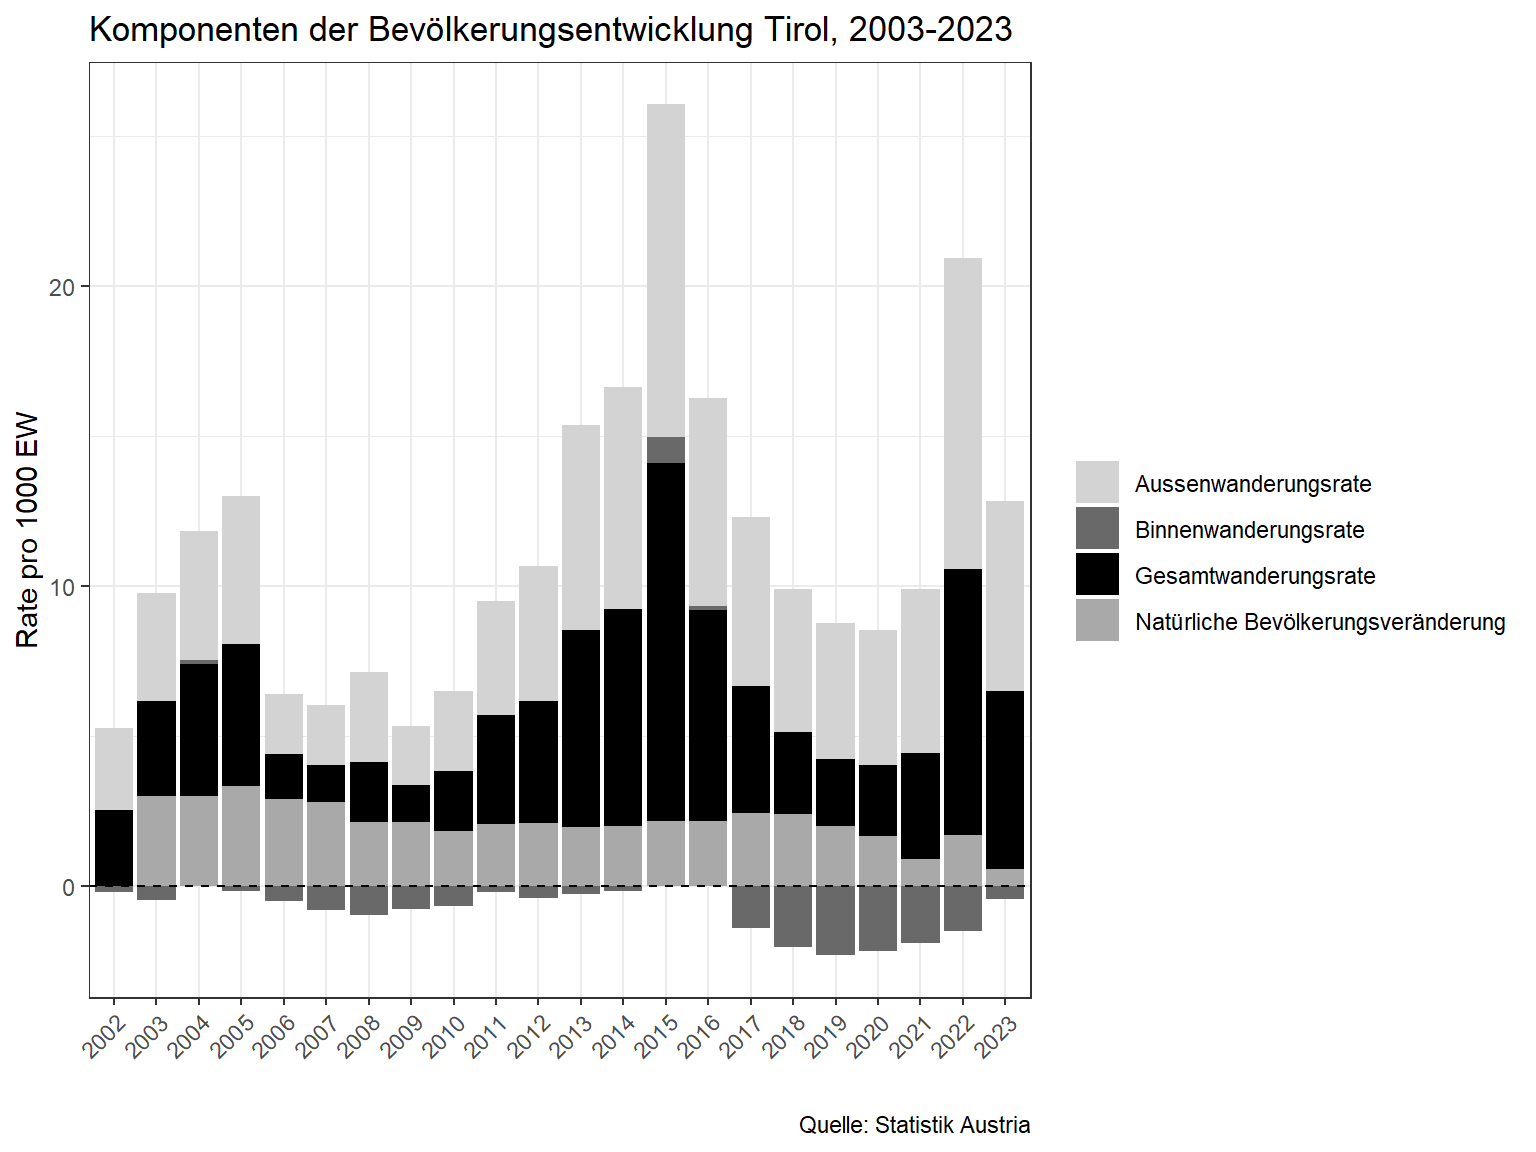
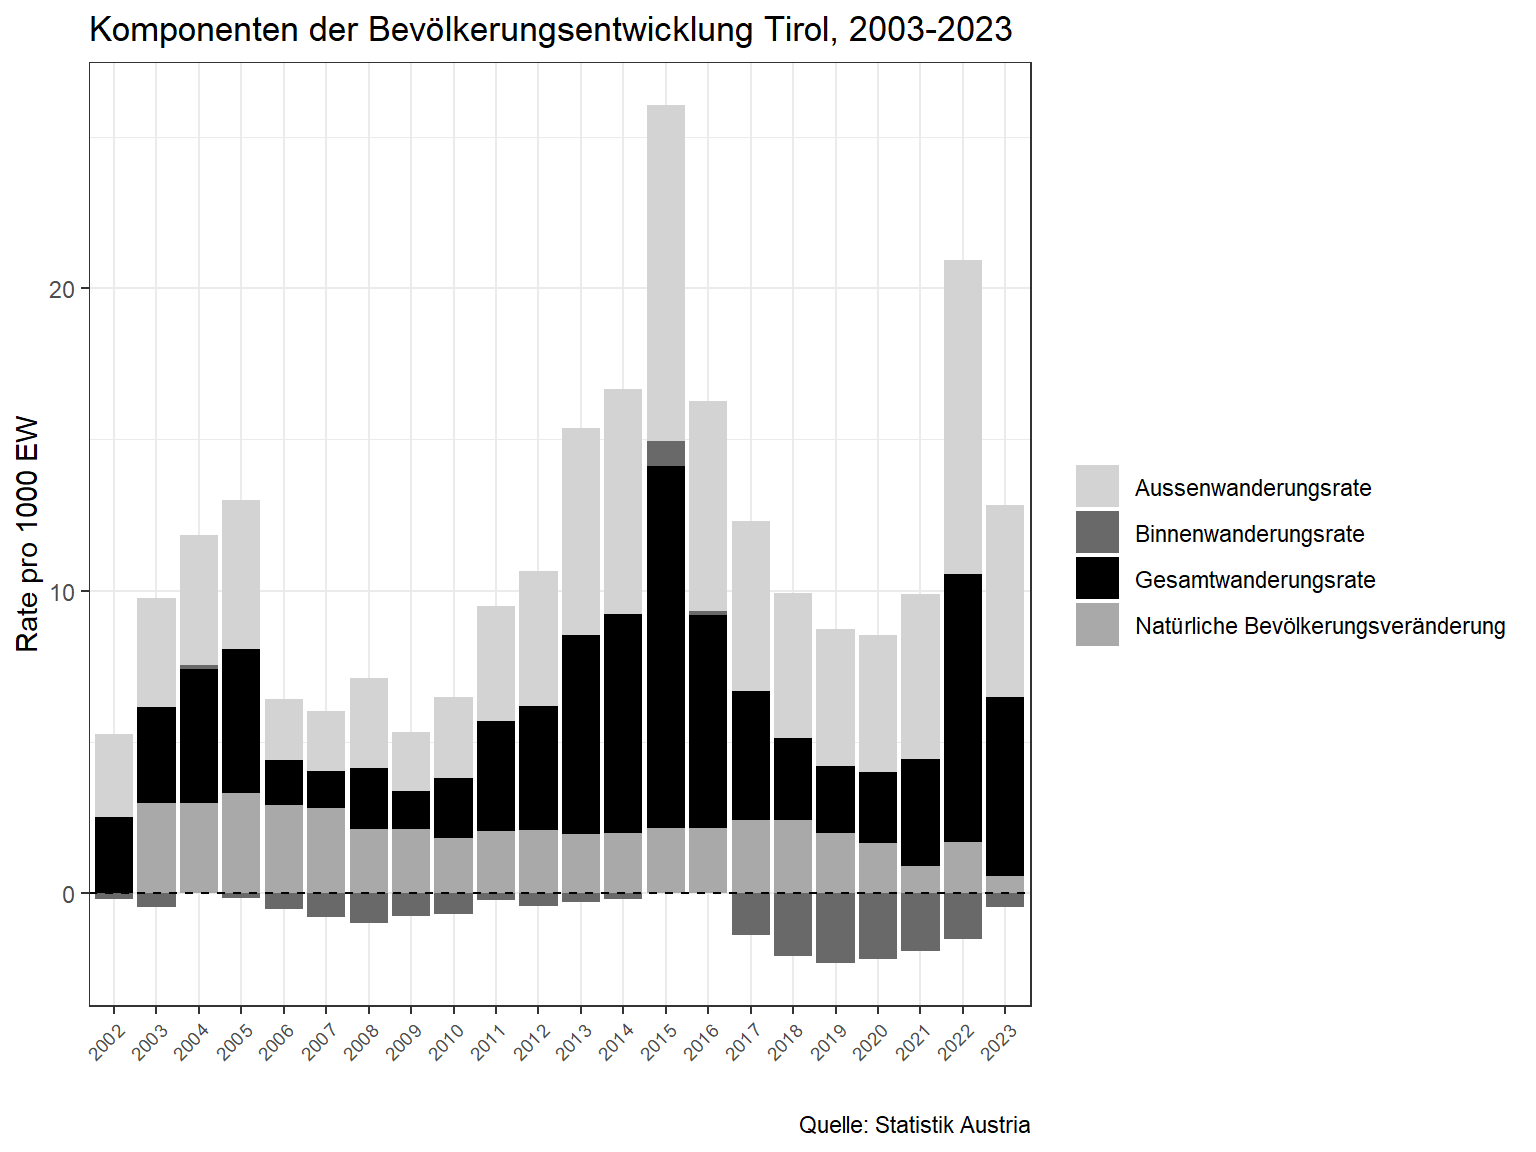
update

diff --git a/docs/02_data_manipulation.html b/docs/02_data_manipulation.html
@@ -670,8 +670,8 @@ window.Quarto = {
 <span id="cb37-11"><a href="#cb37-11" aria-hidden="true" tabindex="-1"></a>  <span class="at">labels =</span> <span class="fu">c</span>(<span class="st">"Aussenwanderungsrate"</span>, <span class="st">"Binnenwanderungsrate"</span>, <span class="st">"Gesamtwanderungsrate"</span>, <span class="st">"Natürliche Bevölkerungsveränderung"</span>)</span>
 <span id="cb37-12"><a href="#cb37-12" aria-hidden="true" tabindex="-1"></a>)<span class="sc">+</span></span>
 <span id="cb37-13"><a href="#cb37-13" aria-hidden="true" tabindex="-1"></a>  <span class="fu">geom_hline</span>(<span class="at">yintercept =</span> <span class="dv">0</span>, <span class="at">col =</span> <span class="st">"grey"</span>, <span class="at">linetype =</span> <span class="st">"solid"</span>, <span class="at">alpha =</span> <span class="fl">0.6</span>)<span class="sc">+</span></span>
-<span id="cb37-14"><a href="#cb37-14" aria-hidden="true" tabindex="-1"></a>  <span class="fu">labs</span>(<span class="at">y =</span> <span class="st">"Rate pro 1000 EW"</span>, <span class="at">x =</span> <span class="st">" "</span>, <span class="at">linetype =</span> <span class="st">" "</span>, <span class="at">title =</span> <span class="st">"Migrationsstatistik Tirol, 2003-2023"</span>, <span class="at">caption =</span> <span class="st">"Quelle: Statistik Austria"</span>)<span class="sc">+</span></span>
-<span id="cb37-15"><a href="#cb37-15" aria-hidden="true" tabindex="-1"></a>    <span class="fu">theme</span>(<span class="at">axis.text.x =</span> <span class="fu">element_text</span>(<span class="at">angle =</span> <span class="dv">45</span>, <span class="at">hjust =</span> <span class="dv">1</span>))  </span></code></pre></div><button title="Copy to Clipboard" class="code-copy-button"><i class="bi"></i></button></div>
+<span id="cb37-14"><a href="#cb37-14" aria-hidden="true" tabindex="-1"></a>  <span class="fu">labs</span>(<span class="at">y =</span> <span class="st">"Rate pro 1000 EW"</span>, <span class="at">x =</span> <span class="st">" "</span>, <span class="at">linetype =</span> <span class="st">" "</span>, <span class="at">title =</span> <span class="st">"Komponenten der Bevölkerungsentwicklung Tirol, 2003-2023"</span>, <span class="at">caption =</span> <span class="st">"Quelle: Statistik Austria"</span>)<span class="sc">+</span></span>
+<span id="cb37-15"><a href="#cb37-15" aria-hidden="true" tabindex="-1"></a>    <span class="fu">theme</span>(<span class="at">axis.text.x =</span> <span class="fu">element_text</span>(<span class="at">angle =</span> <span class="dv">45</span>, <span class="at">hjust =</span> <span class="dv">1</span>, <span class="at">size =</span> <span class="dv">7</span>))  </span></code></pre></div><button title="Copy to Clipboard" class="code-copy-button"><i class="bi"></i></button></div>
 <div class="cell-output-display">
 <div>
 <figure class="figure">
@@ -691,7 +691,7 @@ window.Quarto = {
 <span id="cb38-10"><a href="#cb38-10" aria-hidden="true" tabindex="-1"></a>)<span class="sc">+</span></span>
 <span id="cb38-11"><a href="#cb38-11" aria-hidden="true" tabindex="-1"></a>  <span class="fu">geom_hline</span>(<span class="at">yintercept =</span> <span class="dv">0</span>, <span class="at">col =</span> <span class="st">"black"</span>, <span class="at">linetype =</span> <span class="st">"dashed"</span>)<span class="sc">+</span></span>
 <span id="cb38-12"><a href="#cb38-12" aria-hidden="true" tabindex="-1"></a>  <span class="fu">labs</span>(<span class="at">y =</span> <span class="st">"Rate pro 1000 EW"</span>, <span class="at">x =</span> <span class="st">" "</span>, <span class="at">fill =</span> <span class="st">" "</span>, <span class="at">title =</span> <span class="st">"Komponenten der Bevölkerungsentwicklung Tirol, 2003-2023"</span>, <span class="at">caption =</span> <span class="st">"Quelle: Statistik Austria"</span>)<span class="sc">+</span></span>
-<span id="cb38-13"><a href="#cb38-13" aria-hidden="true" tabindex="-1"></a>    <span class="fu">theme</span>(<span class="at">axis.text.x =</span> <span class="fu">element_text</span>(<span class="at">angle =</span> <span class="dv">45</span>, <span class="at">hjust =</span> <span class="dv">1</span>)) <span class="co"># Diese Darstellung ist fehlerhaft, warum?</span></span></code></pre></div><button title="Copy to Clipboard" class="code-copy-button"><i class="bi"></i></button></div>
+<span id="cb38-13"><a href="#cb38-13" aria-hidden="true" tabindex="-1"></a>    <span class="fu">theme</span>(<span class="at">axis.text.x =</span> <span class="fu">element_text</span>(<span class="at">angle =</span> <span class="dv">45</span>, <span class="at">hjust =</span> <span class="dv">1</span>, <span class="at">size =</span> <span class="dv">7</span>)) <span class="co"># Diese Darstellung ist fehlerhaft, warum?</span></span></code></pre></div><button title="Copy to Clipboard" class="code-copy-button"><i class="bi"></i></button></div>
 <div class="cell-output-display">
 <div>
 <figure class="figure">
@@ -711,7 +711,7 @@ window.Quarto = {
 <span id="cb39-10"><a href="#cb39-10" aria-hidden="true" tabindex="-1"></a>)<span class="sc">+</span></span>
 <span id="cb39-11"><a href="#cb39-11" aria-hidden="true" tabindex="-1"></a>  <span class="fu">geom_hline</span>(<span class="at">yintercept =</span> <span class="dv">0</span>, <span class="at">col =</span> <span class="st">"black"</span>, <span class="at">linetype =</span> <span class="st">"dashed"</span>)<span class="sc">+</span></span>
 <span id="cb39-12"><a href="#cb39-12" aria-hidden="true" tabindex="-1"></a>  <span class="fu">labs</span>(<span class="at">y =</span> <span class="st">"Rate pro 1000 EW"</span>, <span class="at">x =</span> <span class="st">" "</span>, <span class="at">fill =</span> <span class="st">" "</span>, <span class="at">title =</span> <span class="st">"Komponenten der Bevölkerungsentwicklung Tirol, 2002-2023"</span>, <span class="at">caption =</span> <span class="st">"Quelle: Statistik Austria"</span>)<span class="sc">+</span></span>
-<span id="cb39-13"><a href="#cb39-13" aria-hidden="true" tabindex="-1"></a>    <span class="fu">theme</span>(<span class="at">axis.text.x =</span> <span class="fu">element_text</span>(<span class="at">angle =</span> <span class="dv">45</span>, <span class="at">hjust =</span> <span class="dv">1</span>))</span></code></pre></div><button title="Copy to Clipboard" class="code-copy-button"><i class="bi"></i></button></div>
+<span id="cb39-13"><a href="#cb39-13" aria-hidden="true" tabindex="-1"></a>    <span class="fu">theme</span>(<span class="at">axis.text.x =</span> <span class="fu">element_text</span>(<span class="at">angle =</span> <span class="dv">45</span>, <span class="at">hjust =</span> <span class="dv">1</span>, <span class="at">size =</span> <span class="dv">7</span>))</span></code></pre></div><button title="Copy to Clipboard" class="code-copy-button"><i class="bi"></i></button></div>
 <div class="cell-output-display">
 <div>
 <figure class="figure">
@@ -739,7 +739,7 @@ window.Quarto = {
 <span id="cb40-15"><a href="#cb40-15" aria-hidden="true" tabindex="-1"></a>  <span class="fu">labs</span>(<span class="at">y =</span> <span class="st">"Rate pro 1000 EW"</span>, <span class="at">x =</span> <span class="st">" "</span>, <span class="at">color =</span> <span class="st">" "</span>,</span>
 <span id="cb40-16"><a href="#cb40-16" aria-hidden="true" tabindex="-1"></a>       <span class="at">title =</span> <span class="st">"Komponenten der Bevölkerungsentwicklung Österreichischer Bundesländer, 2002-2023"</span>,</span>
 <span id="cb40-17"><a href="#cb40-17" aria-hidden="true" tabindex="-1"></a>       <span class="at">caption =</span> <span class="st">"Quelle: Statistik Austria;</span><span class="sc">\n</span><span class="st"> Anm: Natürliche Bevölkerungsveränderung ohne statistische Korrektur"</span>)<span class="sc">+</span></span>
-<span id="cb40-18"><a href="#cb40-18" aria-hidden="true" tabindex="-1"></a>  <span class="fu">theme</span>(<span class="at">axis.text.x =</span> <span class="fu">element_text</span>(<span class="at">angle =</span> <span class="dv">45</span>, <span class="at">hjust =</span> <span class="dv">1</span>),</span>
+<span id="cb40-18"><a href="#cb40-18" aria-hidden="true" tabindex="-1"></a>  <span class="fu">theme</span>(<span class="at">axis.text.x =</span> <span class="fu">element_text</span>(<span class="at">angle =</span> <span class="dv">45</span>, <span class="at">hjust =</span> <span class="dv">1</span>, <span class="at">size =</span> <span class="dv">7</span>),</span>
 <span id="cb40-19"><a href="#cb40-19" aria-hidden="true" tabindex="-1"></a>        <span class="at">legend.position =</span> <span class="st">"bottom"</span>)</span></code></pre></div><button title="Copy to Clipboard" class="code-copy-button"><i class="bi"></i></button></div>
 <div class="cell-output-display">
 <div>
